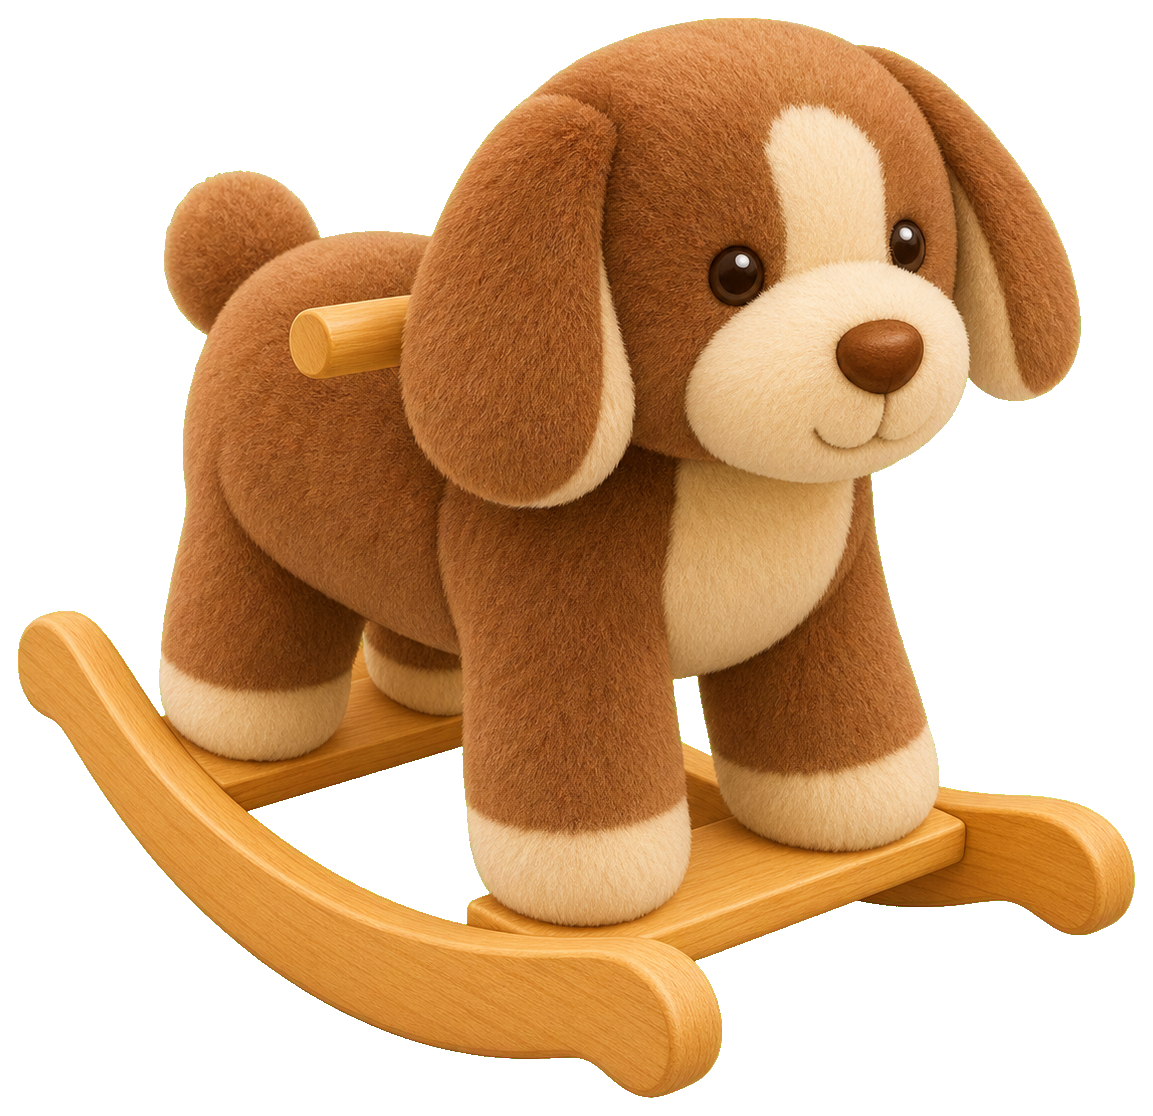
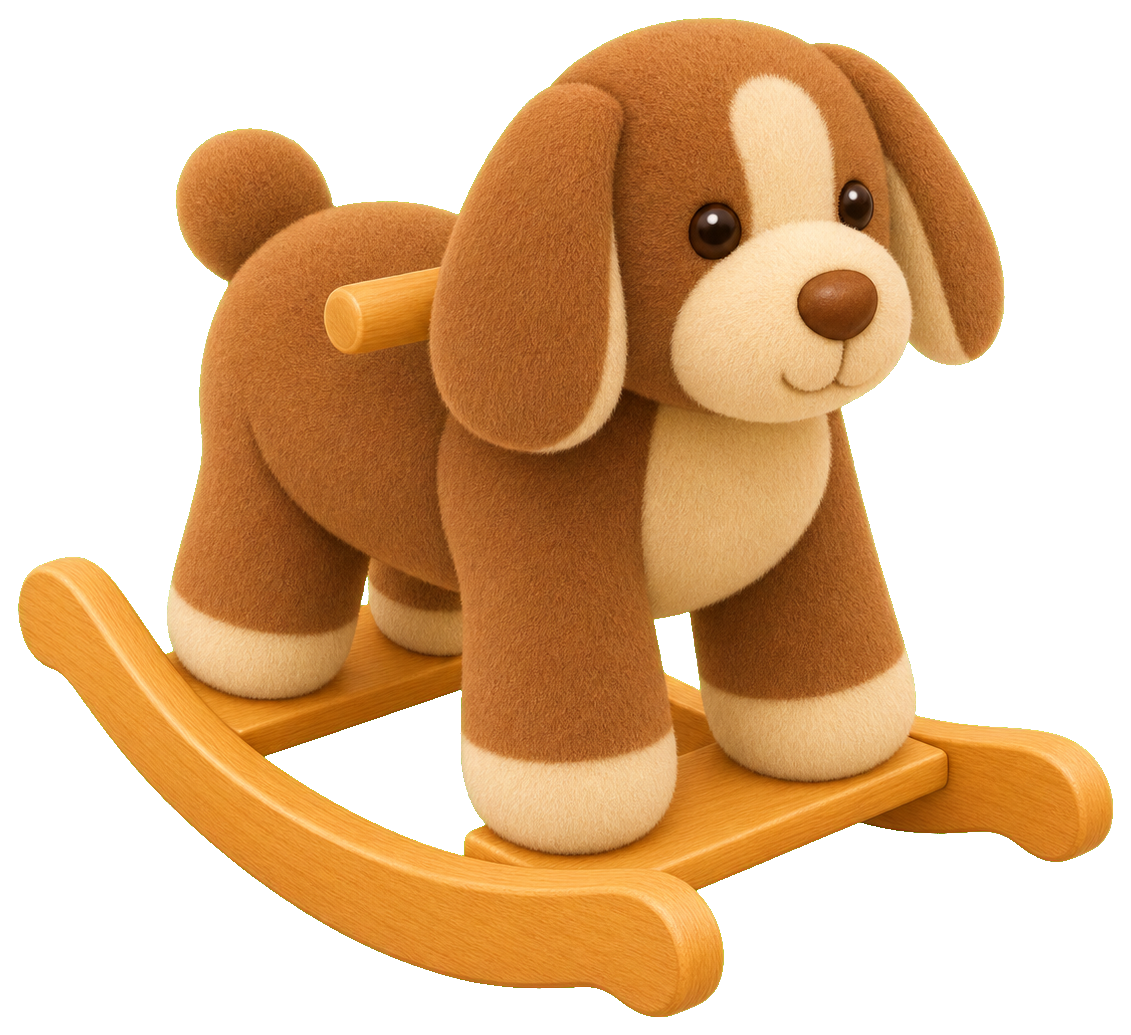
Add kitchen sink toggle and question variety

Changed region(s): [[0.0, 0.0, 0.9903, 0.9894]]

diff --git a/mathgame/script.js b/mathgame/script.js
@@ -1,6 +1,8 @@
 const SAVE_KEY = "math-pet-sky-meadow-v3";
 const QUEST_PASS = 3;
 const BOSS_PASS = 5;
+const RECENT_PROBLEM_LIMIT = 60;
+const KITCHEN_WORKBOOK_RATE = 0.35;
 
 const PET_VARIANTS = {
   golden: { name: "golden puppy", egg: "sunny" },
@@ -87,7 +89,7 @@ const ASSETS = {
   homeLamp: "assets/gpt-home-lamp-off.png",
   homeLampOn: "assets/gpt-home-lamp-on.png",
   homeTable: "assets/gpt-home-table.png",
-  homeRockingDogToy: "assets/gpt-home-rocking-dog-toy.png?v=20260615-rocking-dog-v2",
+  homeRockingDogToy: "assets/gpt-home-rocking-dog-toy.png?v=20260615-rocking-dog-v3",
   kitchenCounter: "assets/gpt-kitchen-counter.png",
   kitchenWallShelves: "assets/gpt-kitchen-wall-shelves.png",
   kitchenSnackCart: "assets/gpt-kitchen-snack-cart.png",
@@ -108,6 +110,8 @@ const ASSETS = {
   kitchenRecipeBook: "assets/gpt-kitchen-recipe-book.png",
   kitchenHerbPlanter: "assets/gpt-kitchen-herb-planter.png",
   kitchenPuppyMug: "assets/gpt-kitchen-puppy-mug.png",
+  kitchenSink: "assets/gpt-kitchen-sink.png?v=20260616-kitchen-sink",
+  kitchenSinkOn: "assets/gpt-kitchen-sink-on.png?v=20260616-kitchen-sink",
   yardBench: "assets/gpt-yard-bench.png",
   yardBall: "assets/gpt-yard-ball.png",
   yardToys: "assets/gpt-yard-toys.png",
@@ -167,6 +171,7 @@ const DECOR_ITEMS = [
   { id: "remote", scene: "home", name: "TV remote", tex: "homeRemote", x: 0.05, y: 0.34, z: 0.62, w: 0.45, h: 0.32, reward: "TV decor", cost: { coins: 25, gems: 0 }, optional: true },
   { id: "rockingDogToy", scene: "home", name: "Rocking puppy", tex: "homeRockingDogToy", x: -2.75, y: 0.48, z: 0.64, w: 1.12, h: 1.22, reward: "Home math", cost: { coins: 70, gems: 0 }, optional: true },
   { id: "kitchenCounter", scene: "kitchen", name: "Kitchen counter", tex: "kitchenCounter", x: -1.88, y: 0.58, z: 0.43, w: 2.35, h: 0.95, reward: "Kitchen quests", cost: { coins: 115, gems: 1 } },
+  { id: "kitchenSink", scene: "kitchen", name: "Paw sink", tex: "kitchenSink", x: -0.18, y: 0.76, z: 0.43, w: 1.25, h: 1.54, reward: "Kitchen quests", cost: { coins: 95, gems: 0 } },
   { id: "kitchenWallShelves", scene: "kitchen", name: "Wall shelves", tex: "kitchenWallShelves", x: -2.38, y: 1.86, z: 0.41, w: 1.74, h: 0.92, reward: "Kitchen quests", cost: { coins: 85, gems: 0 } },
   { id: "snackCart", scene: "kitchen", name: "Snack cart", tex: "kitchenSnackCart", x: -3.6, y: 0.58, z: 0.42, w: 1.36, h: 1.28, reward: "Kitchen quests", cost: { coins: 95, gems: 0 } },
   { id: "kitchenFridge", scene: "kitchen", name: "Mint fridge", tex: "kitchenFridge", x: 3.5, y: 1.12, z: 0.38, w: 1.5, h: 2.34, reward: "Kitchen quests", cost: { coins: 110, gems: 1 } },
@@ -278,6 +283,7 @@ const TOGGLEABLE_DECOR = {
   lamp: { onName: "lamp on", offName: "lamp off" },
   tv: { onName: "next channel", offName: "TV off" },
   kitchenFridge: { onName: "fridge open", offName: "fridge closed" },
+  kitchenSink: { onName: "tap running", offName: "tap off" },
   oven: { onName: "next oven food", offName: "oven closed" },
   mountainCampfire: { onName: "fire lit", offName: "fire out" },
   underwaterPearlLamp: { onName: "pearl glowing", offName: "pearl dim" },
@@ -365,6 +371,8 @@ let lastInteractiveObjects = [];
 let dragState = null;
 let recentProblemKeys = [];
 let workbookProblemIndex = 0;
+let workbookQuestionOrder = [];
+let workbookQuestionCursor = 0;
 let whiteboardDrawing = null;
 let whiteboardTool = "pen";
 const URL_PARAMS = new URLSearchParams(window.location.search);
@@ -401,11 +409,11 @@ if (IS_DEMO) {
     mountainUnlocked: true,
     underwaterUnlocked: true,
     kitchenUnlocked: true,
-    decorUnlocked: ["couch", "plant", "tv", "chair", "lamp", "table", "remote", "rockingDogToy", "piggyCarToy", "kitchenCounter", "kitchenWallShelves", "snackCart", "kitchenFridge", "oven", "bowlStation", "breakfastTable", "cookieTray", "shelfInsert", "cookieJar", "cupcakeStand", "teaKettle", "recipeBook", "herbPlanter", "puppyMug", "bench", "ball", "toys", "waterfallLog", "waterfallLantern", "waterfallLilypads", "waterfallBasket", "lavenderPlush", "mountainTent", "mountainCampfire", "mountainSnacks", "mountainShelter", "mountainLantern", "underwaterShellSeat", "underwaterPearlLamp", "underwaterTreasureChest", "underwaterBubbleHoop", "underwaterKelpHideout"],
-    decorOwned: ["couch", "plant", "tv", "chair", "lamp", "table", "remote", "rockingDogToy", "piggyCarToy", "kitchenCounter", "kitchenWallShelves", "snackCart", "kitchenFridge", "oven", "bowlStation", "breakfastTable", "cookieTray", "shelfInsert", "cookieJar", "cupcakeStand", "teaKettle", "recipeBook", "herbPlanter", "puppyMug", "bench", "ball", "toys", "waterfallLog", "waterfallLantern", "waterfallLilypads", "waterfallBasket", "lavenderPlush", "mountainTent", "mountainCampfire", "mountainSnacks", "mountainShelter", "mountainLantern", "underwaterShellSeat", "underwaterPearlLamp", "underwaterTreasureChest", "underwaterBubbleHoop", "underwaterKelpHideout"],
-    decorPlaced: ["couch", "plant", "tv", "lamp", "remote", "rockingDogToy", "piggyCarToy", "kitchenCounter", "kitchenWallShelves", "snackCart", "kitchenFridge", "oven", "bowlStation", "breakfastTable", "cookieTray", "shelfInsert", "cookieJar", "cupcakeStand", "teaKettle", "recipeBook", "herbPlanter", "puppyMug", "bench", "ball", "toys", "waterfallLog", "waterfallLantern", "waterfallLilypads", "waterfallBasket", "lavenderPlush", "mountainTent", "mountainCampfire", "mountainSnacks", "mountainShelter", "mountainLantern", "underwaterShellSeat", "underwaterPearlLamp", "underwaterTreasureChest", "underwaterBubbleHoop", "underwaterKelpHideout"],
+    decorUnlocked: ["couch", "plant", "tv", "chair", "lamp", "table", "remote", "rockingDogToy", "piggyCarToy", "kitchenCounter", "kitchenSink", "kitchenWallShelves", "snackCart", "kitchenFridge", "oven", "bowlStation", "breakfastTable", "cookieTray", "shelfInsert", "cookieJar", "cupcakeStand", "teaKettle", "recipeBook", "herbPlanter", "puppyMug", "bench", "ball", "toys", "waterfallLog", "waterfallLantern", "waterfallLilypads", "waterfallBasket", "lavenderPlush", "mountainTent", "mountainCampfire", "mountainSnacks", "mountainShelter", "mountainLantern", "underwaterShellSeat", "underwaterPearlLamp", "underwaterTreasureChest", "underwaterBubbleHoop", "underwaterKelpHideout"],
+    decorOwned: ["couch", "plant", "tv", "chair", "lamp", "table", "remote", "rockingDogToy", "piggyCarToy", "kitchenCounter", "kitchenSink", "kitchenWallShelves", "snackCart", "kitchenFridge", "oven", "bowlStation", "breakfastTable", "cookieTray", "shelfInsert", "cookieJar", "cupcakeStand", "teaKettle", "recipeBook", "herbPlanter", "puppyMug", "bench", "ball", "toys", "waterfallLog", "waterfallLantern", "waterfallLilypads", "waterfallBasket", "lavenderPlush", "mountainTent", "mountainCampfire", "mountainSnacks", "mountainShelter", "mountainLantern", "underwaterShellSeat", "underwaterPearlLamp", "underwaterTreasureChest", "underwaterBubbleHoop", "underwaterKelpHideout"],
+    decorPlaced: ["couch", "plant", "tv", "lamp", "remote", "rockingDogToy", "piggyCarToy", "kitchenCounter", "kitchenSink", "kitchenWallShelves", "snackCart", "kitchenFridge", "oven", "bowlStation", "breakfastTable", "cookieTray", "shelfInsert", "cookieJar", "cupcakeStand", "teaKettle", "recipeBook", "herbPlanter", "puppyMug", "bench", "ball", "toys", "waterfallLog", "waterfallLantern", "waterfallLilypads", "waterfallBasket", "lavenderPlush", "mountainTent", "mountainCampfire", "mountainSnacks", "mountainShelter", "mountainLantern", "underwaterShellSeat", "underwaterPearlLamp", "underwaterTreasureChest", "underwaterBubbleHoop", "underwaterKelpHideout"],
     decorPositions: {},
-    decorStates: { lamp: 1, tv: 1, kitchenFridge: 1, oven: 0, mountainCampfire: 1, underwaterPearlLamp: 1 },
+    decorStates: { lamp: 1, tv: 1, kitchenFridge: 1, kitchenSink: 0, oven: 0, mountainCampfire: 1, underwaterPearlLamp: 1 },
     petPositions: {
       home: { x: -0.18, y: 0.48 },
       kitchen: { x: -0.12, y: 0.46 },
@@ -860,6 +868,7 @@ function decorTextureForItem(item) {
   if (item.id === "tv") return "homeTvOff";
   if (item.id === "lamp") return decorStateValue("lamp") ? "homeLampOn" : "homeLamp";
   if (item.id === "kitchenFridge") return decorStateValue("kitchenFridge") ? "kitchenFridgeOpen" : "kitchenFridge";
+  if (item.id === "kitchenSink") return decorStateValue("kitchenSink") ? "kitchenSinkOn" : "kitchenSink";
   if (item.id === "oven") return OVEN_STATES[decorStateValue("oven")]?.tex || "kitchenOven";
   if (item.id === "mountainCampfire") return decorStateValue("mountainCampfire") ? "mountainCampfireOn" : "mountainCampfireOff";
   if (item.id === "underwaterPearlLamp") return decorStateValue("underwaterPearlLamp") ? "underwaterPearlLampOn" : "underwaterPearlLampOff";
@@ -1866,25 +1875,70 @@ function finishRound() {
 }
 
 function makeProblem(type, world) {
-  const workbookProblem = nextWorkbookProblem();
-  if (workbookProblem) return workbookProblem;
-  for (let attempt = 0; attempt < 18; attempt += 1) {
-    const item = makeProblemCandidate(type, world);
-    const key = `${type}:${item.prompt}`;
-    if (!recentProblemKeys.includes(key) || attempt === 17) {
-      recentProblemKeys.push(key);
-      recentProblemKeys = recentProblemKeys.slice(-18);
-      return item;
-    }
+  const roundLocation = activeRound?.location || currentScene();
+  const workbookFirst = roundLocation !== "kitchen" || Math.random() < KITCHEN_WORKBOOK_RATE;
+  if (workbookFirst) {
+    const workbookProblem = nextWorkbookProblem(type);
+    if (workbookProblem) return workbookProblem;
   }
+  const generatedProblem = nextGeneratedProblem(type, world, roundLocation);
+  if (generatedProblem) return generatedProblem;
+  const workbookProblem = nextWorkbookProblem(type);
+  if (workbookProblem) return workbookProblem;
   return makeProblemCandidate(type, world);
 }
 
-function nextWorkbookProblem() {
+function nextGeneratedProblem(type, world, roundLocation = currentScene()) {
+  for (let attempt = 0; attempt < 18; attempt += 1) {
+    const item = makeProblemCandidateForScene(type, world, roundLocation);
+    const key = problemKey("generated", type, item);
+    if (!recentProblemKeys.includes(key) || attempt === 17) {
+      rememberProblemKey(key);
+      return item;
+    }
+  }
+  return null;
+}
+
+function makeProblemCandidateForScene(type, world, scene) {
+  if (scene === "kitchen") return makeKitchenProblemCandidate(type, world);
+  return makeProblemCandidate(type, world);
+}
+
+function nextWorkbookProblem(type = "workbook") {
   const bank = Array.isArray(window.MATHGAME_WORKBOOK_QUESTIONS) ? window.MATHGAME_WORKBOOK_QUESTIONS : [];
   if (!bank.length) return null;
-  const raw = bank[workbookProblemIndex % bank.length];
-  workbookProblemIndex += 1;
+  if (workbookQuestionOrder.length !== bank.length) {
+    workbookQuestionOrder = shuffledIndexes(bank.length);
+    workbookQuestionCursor = workbookProblemIndex % Math.max(1, bank.length);
+  }
+
+  let fallback = null;
+  for (let attempt = 0; attempt < bank.length; attempt += 1) {
+    if (workbookQuestionCursor >= workbookQuestionOrder.length) {
+      workbookQuestionOrder = shuffledIndexes(bank.length);
+      workbookQuestionCursor = 0;
+    }
+    const raw = bank[workbookQuestionOrder[workbookQuestionCursor]];
+    workbookQuestionCursor += 1;
+    workbookProblemIndex += 1;
+    const item = workbookProblemFromRaw(raw);
+    const key = problemKey("workbook", type, item);
+    fallback = fallback || { item, key };
+    if (!recentProblemKeys.includes(key) || attempt === bank.length - 1) {
+      rememberProblemKey(key);
+      return item;
+    }
+  }
+
+  if (fallback) {
+    rememberProblemKey(fallback.key);
+    return fallback.item;
+  }
+  return null;
+}
+
+function workbookProblemFromRaw(raw) {
   return {
     prompt: raw.prompt,
     answer: raw.answer,
@@ -1897,6 +1951,24 @@ function nextWorkbookProblem() {
   };
 }
 
+function shuffledIndexes(length) {
+  const indexes = Array.from({ length }, (_, index) => index);
+  for (let index = indexes.length - 1; index > 0; index -= 1) {
+    const swap = Math.floor(Math.random() * (index + 1));
+    [indexes[index], indexes[swap]] = [indexes[swap], indexes[index]];
+  }
+  return indexes;
+}
+
+function problemKey(source, type, item) {
+  return `${source}:${type}:${normalize(item.prompt)}`;
+}
+
+function rememberProblemKey(key) {
+  recentProblemKeys.push(key);
+  recentProblemKeys = recentProblemKeys.slice(-RECENT_PROBLEM_LIMIT);
+}
+
 function makeProblemCandidate(type, world) {
   if (type === "number") return makeNumberProblem(world);
   if (type === "fraction") return makeBridgeProblem(world);
@@ -1905,6 +1977,198 @@ function makeProblemCandidate(type, world) {
   const bossMakers = [makeNumberProblem, makeBridgeProblem, makeGeometryProblem];
   if (bossWorld >= 4) bossMakers.push(makeDecimalFluencyProblem);
   return choose(bossMakers)(bossWorld);
+}
+
+function makeKitchenProblemCandidate(type, world) {
+  if (type === "number") return makeKitchenNumberProblem();
+  if (type === "fraction") return makeKitchenFractionProblem();
+  if (type === "geometry") return makeKitchenGeometryProblem();
+  return choose([
+    makeKitchenNumberProblem,
+    makeKitchenFractionProblem,
+    makeKitchenGeometryProblem,
+    () => makeNumberProblem(Math.max(world, 3)),
+    () => makeBridgeProblem(Math.max(world, 3)),
+  ])();
+}
+
+function makeKitchenNumberProblem() {
+  return choose([
+    makeKitchenTrayMultiplicationProblem,
+    makeKitchenSnackCartProblem,
+    makeKitchenShelfCountingProblem,
+    makeKitchenChangeProblem,
+    makeKitchenScaleRecipeProblem,
+    makeMultiplicationProblem,
+    makeEquationProblem,
+  ])();
+}
+
+function makeKitchenFractionProblem() {
+  return choose([
+    makeKitchenFractionOfNumberProblem,
+    makeKitchenRecipeFractionProblem,
+    makeKitchenRecipeEquationProblem,
+    makeKitchenUnitFractionProblem,
+    makeFractionEquationProblem,
+    makeMixedFractionEquationProblem,
+    makeDecimalFractionProblem,
+  ])();
+}
+
+function makeKitchenGeometryProblem() {
+  return choose([
+    makeKitchenTileAreaProblem,
+    makeKitchenTilePerimeterProblem,
+    makeKitchenBacksplashAreaProblem,
+    makeKitchenShelfPerimeterProblem,
+    makeLShapeAreaProblem,
+    makeRightTriangleAreaProblem,
+    makeRectangleTriangleAreaProblem,
+    makeCompositePerimeterProblem,
+  ])();
+}
+
+function makeKitchenTrayMultiplicationProblem() {
+  const trays = rand(3, 9);
+  const treats = rand(8, 18);
+  return problem(`Kitchen trays: each tray has ${treats} puppy treats. How many treats are on ${trays} trays?`, trays * treats, "Kitchen multiplication", [
+    "Multiply treats per tray by the number of trays.",
+    "Use partial products if the numbers feel large.",
+    "Check that the answer is reasonable.",
+  ], "number", null, null, "Type treats");
+}
+
+function makeKitchenSnackCartProblem() {
+  const jars = rand(4, 9);
+  const perJar = rand(6, 15);
+  const served = rand(8, 28);
+  return problem(`Snack cart: ${jars} jars each hold ${perJar} biscuits. After ${served} biscuits are served, how many are left?`, jars * perJar - served, "Multi-step kitchen problem", [
+    "First find the total biscuits.",
+    "Then subtract the biscuits served.",
+    "Use the remaining amount as the answer.",
+  ], "number", null, null, "Type remaining");
+}
+
+function makeKitchenShelfCountingProblem() {
+  const shelves = rand(3, 7);
+  const bowls = rand(4, 12);
+  const extras = rand(5, 24);
+  return problem(`Kitchen shelves: ${shelves} shelves hold ${bowls} bowls each, plus ${extras} bowls on the counter. How many bowls are there?`, shelves * bowls + extras, "Shelf counting", [
+    "Multiply shelves by bowls per shelf.",
+    "Add the bowls on the counter.",
+    "This is a two-step total.",
+  ], "number", null, null, "Type bowls");
+}
+
+function makeKitchenChangeProblem() {
+  const price = choose([1.25, 1.5, 1.75, 2.25, 2.5, 3.25, 3.5]);
+  const count = rand(2, 6);
+  const paid = choose([10, 12, 15, 20]);
+  const total = Math.round(price * count * 100) / 100;
+  const answer = Math.round((paid - total) * 100) / 100;
+  if (answer <= 0) return makeKitchenTrayMultiplicationProblem();
+  return problem(`Kitchen shop: ${count} snacks cost $${formatDecimal(price)} each. If you pay $${paid}, how much change do you get?`, answer, "Decimal money problem", [
+    "Multiply price by number of snacks.",
+    "Subtract the cost from the money paid.",
+    "Write dollars as a decimal.",
+  ], "decimal", null, formatDecimal(answer), "Example: 2.50");
+}
+
+function makeKitchenScaleRecipeProblem() {
+  const batches = rand(3, 8);
+  const perBatch = rand(12, 35);
+  return problem(`Recipe scale: one batch makes ${perBatch} cookies. How many cookies do ${batches} batches make?`, batches * perBatch, "Recipe scaling", [
+    "Each batch is the same size.",
+    "Multiply cookies per batch by batches.",
+    "Use the total as the answer.",
+  ], "number", null, null, "Type cookies");
+}
+
+function makeKitchenFractionOfNumberProblem() {
+  const denominator = choose([3, 4, 5, 6, 8, 10, 12]);
+  const numerator = rand(1, denominator - 1);
+  const whole = denominator * rand(3, 14);
+  return problem(`Kitchen prep: find ${numerator}/${denominator} of ${whole} treats.`, (whole / denominator) * numerator, "Fraction of a number", [
+    "Divide the total by the denominator.",
+    "Multiply by the numerator.",
+    "This gives the fraction of the treats.",
+  ], "number", null, null, "Type treats");
+}
+
+function makeKitchenRecipeFractionProblem() {
+  const denominator = choose([2, 3, 4, 5, 6, 8]);
+  const numerator = rand(1, denominator - 1);
+  const batches = rand(2, 7);
+  const answer = rational(numerator * batches, denominator);
+  return rationalProblem(`Recipe water: one batch uses ${numerator}/${denominator} cup. How many cups for ${batches} batches?`, answer, "Recipe fractions", [
+    "Multiply the fraction by the number of batches.",
+    "Simplify the fraction if possible.",
+    "Mixed numbers and improper fractions are accepted.",
+  ], formatRationalValue(answer));
+}
+
+function makeKitchenRecipeEquationProblem() {
+  const denominator = choose([4, 5, 6, 8, 10, 12]);
+  const used = rand(1, denominator - 1);
+  const left = rand(used + 1, denominator + used);
+  const answer = rational(left - used, denominator);
+  return rationalProblem(`Solve: x + ${used}/${denominator} cup = ${left}/${denominator} cup`, answer, "Recipe fraction equation", [
+    "Subtract the used amount from both sides.",
+    "Keep the common denominator.",
+    "Write x as a fraction.",
+  ], `x = ${formatRationalValue(answer)}`);
+}
+
+function makeKitchenUnitFractionProblem() {
+  const denominator = choose([3, 4, 5, 6, 8, 10]);
+  const scoops = rand(2, 9);
+  const answer = rational(scoops, denominator);
+  return rationalProblem(`Sink cups: ${scoops} scoops are each 1/${denominator} cup. How many cups is that?`, answer, "Unit fractions", [
+    "Each scoop is one unit fraction.",
+    "Add the unit fraction repeatedly.",
+    "Simplify or write as a mixed number.",
+  ], formatRationalValue(answer));
+}
+
+function makeKitchenTileAreaProblem() {
+  const rows = rand(4, 12);
+  const columns = rand(5, 14);
+  return problem(`Kitchen floor tiles: ${rows} rows with ${columns} tiles in each row. How many tiles total?`, rows * columns, "Array area", [
+    "Rows times columns gives the total.",
+    "This is also the area in square tiles.",
+    "Multiply carefully.",
+  ], "number", null, null, "Type tiles");
+}
+
+function makeKitchenTilePerimeterProblem() {
+  const length = rand(5, 16);
+  const width = rand(3, 10);
+  return problem(`Sink mat: a rectangular mat is ${length} by ${width}. What is its perimeter?`, 2 * (length + width), "Rectangle perimeter", [
+    "Perimeter is the distance around.",
+    "Add length and width, then double.",
+    "Do not multiply for area.",
+  ], "number", null, null, "Type perimeter");
+}
+
+function makeKitchenBacksplashAreaProblem() {
+  const width = rand(4, 14);
+  const height = rand(2, 8);
+  return problem(`Kitchen backsplash: a rectangle is ${width} by ${height}. What is the area?`, width * height, "Rectangle area", [
+    "Area is length times height.",
+    "Use square units.",
+    "Only multiply the two side lengths.",
+  ], "number", null, null, "Type area");
+}
+
+function makeKitchenShelfPerimeterProblem() {
+  const sideA = rand(5, 13);
+  const sideB = rand(2, 8);
+  return problem(`Wall shelf label: a rectangle is ${sideA} by ${sideB}. What is the perimeter of the label?`, 2 * (sideA + sideB), "Rectangle perimeter", [
+    "A rectangle has two of each side length.",
+    "Add all four sides.",
+    "Perimeter is a length.",
+  ], "number", null, null, "Type perimeter");
 }
 
 function makeNumberProblem(world) {

diff --git a/mathgame/index.html b/mathgame/index.html
@@ -191,7 +191,7 @@
       </div>
     </section>
 
-    <script src="script.js?v=20260615-rocking-dog-v2"></script>
+    <script src="script.js?v=20260616-kitchen-sink-questions"></script>
     <script src="workbook-questions.js?v=20260615-mixed-number-prompts"></script>
   </body>
 </html>
